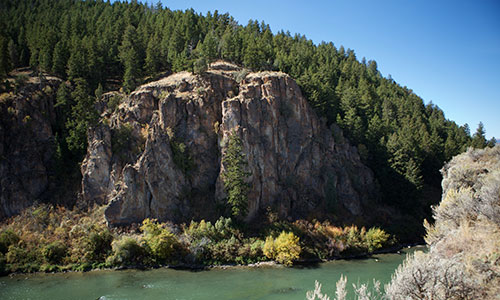
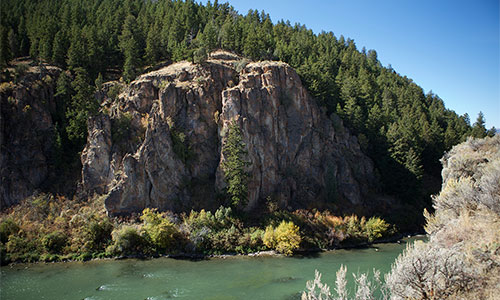
Updated town images.

diff --git a/lesson10/js/liveweatherdata.js b/lesson10/js/liveweatherdata.js
@@ -27,7 +27,7 @@ const windChillCalc = (t, s) => {
     let windChill = 'N/A';
     if (t <= 50 && s > 3.0) {
         windChill = 35.74 + 0.6215 * t - 35.75 * Math.pow(s, 0.16) + 0.4275 * t * Math.pow(s, 0.16);
-        return parseInt(windChill) + "&deg;F";
+        return Math.round(windChill) + "&deg;F";
     } else {
         return windChill;
     }
@@ -42,11 +42,11 @@ fetch(currentWeatherDataURL)
         let t = currentWeatherObject.main.temp;
         let s = currentWeatherObject.wind.speed;
         document.getElementById("weather_desc").innerText = currentWeatherObject.weather[0].main;
-        document.getElementById("high_low_temp").innerHTML = parseInt(h) + "&deg;F / " + parseInt(l) + "&deg;F";
-        document.getElementById("current_temp").innerHTML = parseInt(t) + "&deg;F";
+        document.getElementById("high_low_temp").innerHTML = Math.round(h) + "&deg;F / " + Math.round(l) + "&deg;F";
+        document.getElementById("current_temp").innerHTML = Math.round(t) + "&deg;F";
         document.getElementById("wind_chill").innerHTML = windChillCalc(t, s);
         document.getElementById("humidity").innerHTML = currentWeatherObject.main.humidity + "&percnt;";
-        document.getElementById("wind_speed").innerText = parseInt(s) + "mph";
+        document.getElementById("wind_speed").innerText = Math.round(s) + "mph";
     });
 
 fetch(forecastDataURL)
@@ -79,7 +79,7 @@ fetch(forecastDataURL)
                 weather.appendChild(weatherIcon);
                 //Create and append high/low to weather detail wrapper
                 let temp = document.createElement("p");
-                temp.innerHTML = parseInt(weatherForecastObject.list[i].main.temp) + "&deg;F";
+                temp.innerHTML = Math.round(weatherForecastObject.list[i].main.temp) + "&deg;F";
                 weather.appendChild(temp);
                 //Append weather info to day wrapper
                 newDay.appendChild(weather);

diff --git a/lesson10/soda-springs.html b/lesson10/soda-springs.html
@@ -43,10 +43,10 @@
         <h1>Soda Springs, Idaho</h1>
         <div id="hero" class="content-block">
             <picture>
-                <source srcset="images/cit230_image_franklin_760px.jpg"
+                <source srcset="images/soda-springs_760px.jpg"
                     media="(min-width: 421px) and (max-width: 780px)">
-                <source srcset="images/cit230_image_franklin_870px.jpg" media="(min-width: 781px)">
-                <img src="images/cit230_image_franklin_420px.jpg"
+                <source srcset="images/soda-springs_870px.jpg" media="(min-width: 781px)">
+                <img src="images/soda-springs_420px.jpg"
                     alt="Overlooking some farm fields in lovely Preston, Idaho.">
             </picture>
             <section id="weather_summary" class="box-shadow">

diff --git a/lesson10/fish-haven.html b/lesson10/fish-haven.html
@@ -43,10 +43,10 @@
         <h1>Fish Haven, Idaho</h1>
         <div id="hero" class="content-block">
             <picture>
-                <source srcset="images/cit230_image_franklin_760px.jpg"
+                <source srcset="images/fish-haven_760px.jpg"
                     media="(min-width: 421px) and (max-width: 780px)">
-                <source srcset="images/cit230_image_franklin_870px.jpg" media="(min-width: 781px)">
-                <img src="images/cit230_image_franklin_420px.jpg"
+                <source srcset="images/fish-haven_870px.jpg" media="(min-width: 781px)">
+                <img src="images/fish-haven_420px.jpg"
                     alt="Overlooking some farm fields in lovely Preston, Idaho.">
             </picture>
             <section id="weather_summary" class="box-shadow">

diff --git a/lesson10/preston.html b/lesson10/preston.html
@@ -43,10 +43,10 @@
         <h1>Preston, Idaho</h1>
         <div id="hero" class="content-block">
             <picture>
-                <source srcset="images/cit230_image_franklin_760px.jpg"
+                <source srcset="images/preston_760px.jpg"
                     media="(min-width: 421px) and (max-width: 780px)">
-                <source srcset="images/cit230_image_franklin_870px.jpg" media="(min-width: 781px)">
-                <img src="images/cit230_image_franklin_420px.jpg"
+                <source srcset="images/preston_870px.jpg" media="(min-width: 781px)">
+                <img src="images/preston_420px.jpg"
                     alt="Overlooking some farm fields in lovely Preston, Idaho.">
             </picture>
             <section id="weather_summary" class="box-shadow">

diff --git a/lesson10/index.html b/lesson10/index.html
@@ -33,8 +33,8 @@
                         Menu</span></a></li>
             <li><a href="index.html" class="active">Home</a></li>
             <li><a href="preston.html">Preston</a></li>
-            <li><a href="#">Soda Springs</a></li>
-            <li><a href="#">Fish Haven</a></li>
+            <li><a href="soda-springs.html">Soda Springs</a></li>
+            <li><a href="fish-haven.html">Fish Haven</a></li>
             <li><a href="stormcenter.html">Storm Center</a></li>
             <li><a href="gallery.html">Gallery</a></li>
         </ul>
